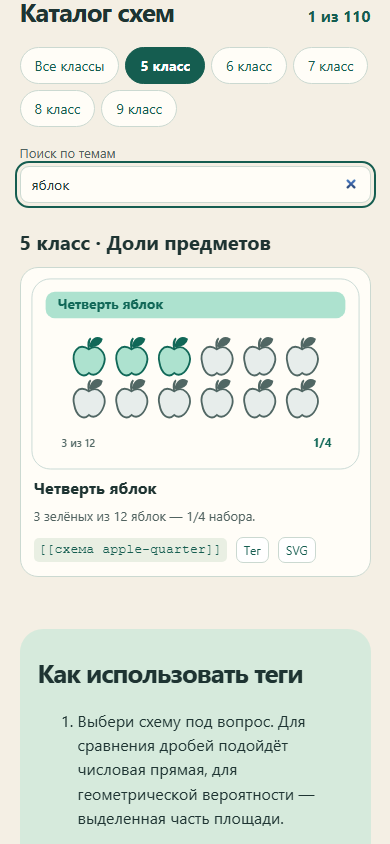
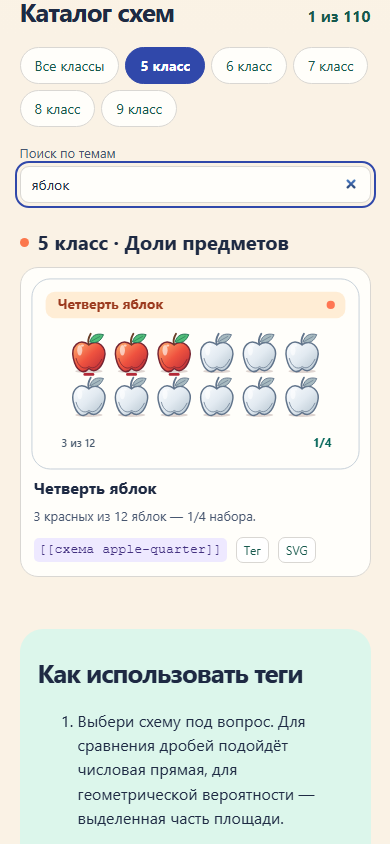
Добавить предметные оттенки и объём в SVG-схемы Бипыча

diff --git a/content/tutor-visual-art.js b/content/tutor-visual-art.js
@@ -3,8 +3,24 @@
 (function (root) {
   'use strict';
   const V = root.VEKTOR_VISUALS, L = root.VEKTOR_TUTOR_VISUALS;
-  const ink = '#243b39', muted = '#516764', line = '#c6d7d3', paper = '#fffdf7';
-  const green = '#116858', mint = '#ade2cf', purple = '#65519b', lilac = '#e1d8f4', orange = '#99521c', gold = '#ffd497';
+  const ink = '#1c2d42', muted = '#46586c', line = '#c1ccd6', paper = '#fffefa';
+  const green = '#06675b', mint = '#5ce0c3', purple = '#5636a1', lilac = '#bea9ff', orange = '#8a410c', gold = '#ffc46b';
+  const headerColors = [
+    ['#ffedd5','#9c3b20','#ff7653'], ['#dff7ee','#096250','#26c6a3'],
+    ['#eae6ff','#4b2e9b','#9b79ff'], ['#fff0c5','#764609','#efae2d'],
+    ['#dcedff','#124e91','#559cf8'],
+  ];
+  const materials = {
+    apple: ['#ffb370','#ef523f','#b32837','#772532'],
+    ticket: ['#d8e5ff','#859cf0','#657bd9','#344696'],
+    fish: ['#ffe88c','#ffac4f','#f26a50','#9c3a2f'],
+    bead: ['#ffe3ff','#cf7cec','#a958c6','#6e3682'],
+    box: ['#fff0c4','#ebba77','#c8814c','#77492b'],
+    drop: ['#dbf9ff','#73dafa','#298dc5','#215d91'],
+    die: ['#fff1e2','#ff8469','#de4540','#8b2d30'],
+  };
+  const neutral = ['#fbfdff','#e2eaf1','#b3c3ce','#61748b'];
+  let nextDrawing = 0;
   const colors = [mint, lilac, gold], accents = [green, purple, orange];
   const W = 360, H = 210, tau = Math.PI * 2;
   const rnd = n => Math.round(n * 100) / 100;
@@ -27,19 +43,53 @@
   const card = (x,y,w,h,title,value,color=0) => R(x,y,w,h,paper,line,12) + T(x+w/2,y+19,title,{size:12,fill:muted}) +
     T(x+w/2,y+h-15,value,{size:18,fill:accents[color%3],weight:750});
 
+  const D = (d,fill,stroke='none',width=1.5) =>
+    `<path d="${d}" fill="${fill}" stroke="${stroke}" stroke-width="${width}" stroke-linecap="round" stroke-linejoin="round"/>`;
+  const E = (x,y,rx,ry,fill='#fff',opacity=.6) =>
+    `<ellipse cx="${x}" cy="${y}" rx="${rx}" ry="${ry}" fill="${fill}" opacity="${opacity}"/>`;
+  const HIGHLIGHT = '#fff6e9';
+
   const icons = {
-    apple: (fill, c) => '<path d="M0 -8C-12 -16-19 -4-16 7C-14 19-6 24 0 18C8 24 15 14 17 6C19 -4 10 -15 0 -8Z" fill="'+fill+'" stroke="'+c+'" stroke-width="2"/><path d="M0 -8Q-2 -17 2 -20M1 -11Q5 -24 14 -19Q13 -12 1 -11" fill="'+c+'" stroke="'+c+'" stroke-width="2"/>',
-    ticket: (fill,c) => '<path d="M-18 -10H18V-4Q9 0 18 4V10H-18V4Q-9 0-18 -4Z" fill="'+fill+'" stroke="'+c+'" stroke-width="2"/><path d="M-6 -8V8M0 -3H9M0 2H7" fill="none" stroke="'+c+'" stroke-width="1.5" stroke-dasharray="2 2"/>',
-    fish: (fill,c) => '<path d="M10 1Q-4 -15-18 0Q-6 13 10 1L19 -7L19 9Z" fill="'+fill+'" stroke="'+c+'" stroke-width="2"/><circle cx="-10" cy="-1" r="1.6" fill="'+c+'"/>',
-    bead: (fill,c) => C(0,0,12,fill,c)+C(0,0,3,paper,c)+S(-6,-5,-2,-8,paper,2),
-    box: (fill,c) => P([[-13,-7],[0,-14],[13,-7],[13,7],[0,14],[-13,7]],fill,c,1.5)+S(-13,-7,0,0,c,1)+S(13,-7,0,0,c,1)+S(0,0,0,14,c,1),
-    drop: (fill,c) => '<path d="M0 -15C-6 -6-12 1-12 7A12 12 0 0 0 12 7C12 1 6-6 0-15Z" fill="'+fill+'" stroke="'+c+'" stroke-width="2"/><path d="M-6 7Q-5 12-1 13" fill="none" stroke="'+c+'" stroke-width="1.4"/>',
-    die: (fill,c,n) => {
+    apple: (fill,c,n,on) =>
+      E(0,20,15,2,'#77514a',.24)+
+      D('M0 -9C-11 -17-20 -7-17 6C-14 20-6 24 0 17C8 24 15 14 17 5C20 -6 10 -16 0 -9Z',fill,c,1.6)+
+      D('M-14 6C-12 15-5 19 0 15C6 19 11 13 14 7','none',c,.8)+
+      E(-10,-3,2.8,5.8)+E(-7,-8,1.7,1.1)+
+      D('M0 -9Q-2 -14 2 -21','none',on?'#693e28':c,2)+
+      D('M1 -12C3 -19 8 -22 16 -20C13 -13 9 -10 1 -12Z',on?'#51bd79':'#a7bac0',on?'#227052':c,1)+
+      S(3,-13,12,-18,on?'#247253':c,.7),
+    ticket: (fill,c) =>
+      D('M-18 -11H18V-5Q9 0 18 5V11H-18V5Q-9 0-18 -5Z',fill,c,1.6)+
+      R(-13,-8,25,16,'none','#f2f6ff',2)+S(-6,-8,-6,8,c,1,'2 2')+
+      S(2,-3,10,-3,c,1)+S(2,0,10,0,c,1)+S(2,3,7,3,c,1),
+    fish: (fill,c,n,on) =>
+      D('M9 1Q-4 -17-19 0Q-8 14 9 1L20 -9L18 1L20 10Z',fill,c,1.6)+
+      D('M-8 -7Q-2 -18 4 -7M-8 8Q-2 15 4 7',on?'#ffd06b':'#cfdae3',c,1.1)+
+      D('M-14 1Q-2 6 8 1M-8 -3Q-4 0-8 3M-3 -3Q1 0-3 3','none',c,.9)+C(-12,-1,1.7,c)+E(-10,-5,3,1),
+    bead: (fill,c) => E(1,13,10,2,'#594080',.35)+C(0,0,12,fill,c)+C(0,0,3,'#fff9f0',c)+E(-5,-5,2.8,2.2)+C(-4,-4,1,'#fff'),
+    box: (fill,c) => P([[-13,-7],[0,-14],[13,-7],[13,7],[0,14],[-13,7]],fill,c,1.35)+
+      P([[0,0],[13,-7],[13,7],[0,14]],'#99472429','none')+
+      S(-13,-7,0,0,c,1)+S(13,-7,0,0,c,1)+S(0,0,0,14,c,1)+S(-6,-10,7,-3,'#fff0bf',1.7),
+    drop: (fill,c) => D('M0 -16C-6 -7-12 1-12 7A12 12 0 0 0 12 7C12 1 6-7 0-16Z',fill,c,1.5)+
+      D('M-8 4Q-9 10-3 13','none','#f0fcff',1.55)+E(-4,-2,1.5,2),
+    die: (fill,c,n,on) => {
       const dots = [[-6,-6],[6,6],[6,-6],[-6,6],[-6,0],[6,0]];
       const positions = [[],[[0,0]],dots.slice(0,2),[...dots.slice(0,2),[0,0]],dots.slice(0,4),[...dots.slice(0,4),[0,0]],dots][n];
-      return R(-13,-13,26,26,fill,c,6) + positions.map(([x,y]) => C(x,y,2,c)).join('');
+      return R(-12,-10,26,26,on?'#983a43':'#92a8ba',c,6)+R(-13,-13,26,26,fill,c,6)+
+        S(-8,-10,6,-10,HIGHLIGHT,1.4)+positions.map(([x,y])=>C(x,y,1.9,c)).join('');
     },
   };
+  const gradient = (id, colors, vertical=false) =>
+    `<linearGradient id="${id}" x1="0%" y1="0%" x2="${vertical?'0%':'100%'}" y2="100%">${colors.map((c,i)=>
+      `<stop offset="${i*50}%" stop-color="${c}"/>`).join('')}</linearGradient>`;
+  const paint = id => 'url(#'+id+')';
+  function car(color, edge, reverse=false) {
+    const wheels = [-17,18].map(x=>C(x,9,5.6,'#213247')+C(x,9,2.3,'#b4c5d3')).join('');
+    const body = D('M-27 1Q-27 -4-21 -6L-10 -7L-2 -17H12L24 -6Q29 -4 30 1V8H-27Z',color,edge)+
+      D('M-6 -8L0 -15H7V-8ZM10 -15L17 -9L10 -8Z','#d2f3ff','#316882',.9)+
+      S(-20,-3,22,-3,'#fff5d7',1)+R(25,1,3,3,'#fff5ad','none',1)+wheels;
+    return `<g transform="scale(${reverse?-1:1} 1)">${body}</g>`;
+  }
 
   const cells = (cols,rows,x,y,d,fillFor) => seq(rows).map(j => seq(cols).map(i =>
     R(x+i*d,y+j*d,d-2,d-2,fillFor(i,j),line,Math.min(3,d/4))).join('')).join('');
@@ -49,10 +99,18 @@
     return b ? Number(a)/Number(b) : Number(a);
   };
   const draw = {
-    tokens([name,n,on,a,b]) {
-      const cols = Math.min(6,n), rows = Math.ceil(n/cols), gap = Math.min(50,280/cols);
-      return seq(n).map(i => G(180+(i%cols-(cols-1)/2)*gap, 109+(Math.floor(i/cols)-(rows-1)/2)*46,
-        icons[name](i<on ? mint : '#e7edeb', i<on ? green : muted, name==='die' ? (i===0?6:i) : i))).join('') + footer(a,b);
+    tokens([name,n,on,a,b], id, scope) {
+      const cols=Math.min(6,n), rows=Math.ceil(n/cols), gap=Math.min(50,280/cols);
+      const active=scope+'-active', quiet=scope+'-quiet';
+      const skin=materials[name];
+      const defs='<defs>'+gradient(active,skin.slice(0,3))+gradient(quiet,neutral.slice(0,3))+'</defs>';
+      const sprites=seq(n).map(i => {
+        const x=180+(i%cols-(cols-1)/2)*gap, y=106+(Math.floor(i/cols)-(rows-1)/2)*48;
+        const onNow=i<on, number=name==='die' ? (i===0?6:i) : i;
+        return G(x,y,icons[name](paint(onNow?active:quiet), onNow?skin[3]:neutral[3], number, onNow))+
+          (onNow?R(x-6,y+22,12,3,skin[2],'none',1.5):'');
+      }).join('');
+      return defs+sprites+footer(a,b);
     },
     bars(rows) {
       return rows.map(([on,n,name,value,first=on],j) => {
@@ -140,22 +198,30 @@
       }).join('');
     },
     motion([a,b,title]) {
-      return R(34,101,292,31,'#dce4e1',line,10) + S(44,117,315,117,paper,2,'11 8') +
-        arrow(65,89,143,89,green)+arrow(295,89,217,89,purple) +
-        G(66,114,icons.box(mint,green),1.1)+G(294,114,icons.box(lilac,purple),1.1) +
-        label(81,156,a)+label(280,156,b,purple)+label(180,184,title,muted);
+      return R(28,98,304,39,'#596879','#3a4e65',10)+S(42,118,318,118,'#fff3c1',2,'12 10')+
+        S(42,103,318,103,'#e8f0ef',1)+S(42,132,318,132,'#e8f0ef',1)+
+        arrow(65,76,143,76,green)+arrow(295,76,217,76,orange)+
+        G(68,117,car('#36cdb8','#126f6a'))+G(292,117,car('#ff8d56','#933624',true))+
+        label(69,156,a)+label(292,156,b,orange)+label(180,184,title,muted);
     },
-    battery([on,n]) {
-      const w=46, x=77, y=90;
-      return R(x,y,199,57,paper,green,12)+R(x+199,y+17,11,23,green,'none',4) +
-        seq(n).map(i=>R(x+8+w*i,y+8,w-5,41,i<on?mint:'#e7eeec',i<on?green:line,5)).join('')+
-        footer('Заполнено '+on+' из '+n,on+'/'+n);
+    battery([on,n], id, scope) {
+      const x=77, y=90, grad=scope+'-charge';
+      return '<defs>'+gradient(grad,['#efffb8','#98eb68','#43bc6a'],true)+'</defs>'+
+        R(x-3,y+4,208,57,'#d8e3ed','none',13)+R(x,y,199,57,'#f6fcff','#293f58',12)+
+        R(x+199,y+17,11,23,'#405877','none',4)+seq(n).map(i=>{
+          const left=x+8+46*i, active=i<on;
+          return R(left,y+8,41,41,active?paint(grad):'#e5eef3',active?'#26714a':'#9eb2c2',5)+
+            (active?S(left+7,y+14,left+34,y+14,'#f7ffd5',2):'');
+        }).join('')+footer('Заполнено '+on+' из '+n,on+'/'+n);
     },
-    tank([n,on,a,b]) {
-      const x=129, y=62, w=102, h=111;
-      return R(x,y,w,h,paper,line,12) + R(x+5,y+5+(n-on)*(h-10)/n,w-10,on*(h-10)/n,mint,'none',7) +
-        seq(n+1).map(i=>S(x+w-22,y+5+i*(h-10)/n,x+w-6,y+5+i*(h-10)/n,muted,1)).join('') +
-        label(255,78,b,muted)+label(180,128,a);
+    tank([n,on,a,b], id, scope) {
+      const x=124, y=60, w=105, h=113, level=y+5+(n-on)*(h-10)/n, water=scope+'-water';
+      return '<defs>'+gradient(water,['#a0e5ff','#61cdf3','#349cdd'],true)+'</defs>'+
+        D('M224 84Q267 76 264 114Q263 139 228 143M226 93Q256 88 254 113Q254 130 227 132','none','#7dacbd',2.1)+
+        R(x,y,w,h,'#edfaff','#6e9fb7',12)+R(x+5,level,w-10,on*(h-10)/n,paint(water),'none',7)+
+        S(x+9,level+1,x+w-10,level+1,'#e3fbff',1.9)+S(x+13,y+15,x+13,y+h-15,'#fff',2.6)+
+        seq(n+1).map(i=>S(x+w-22,y+5+i*(h-10)/n,x+w-6,y+5+i*(h-10)/n,'#215a78',1)).join('')+
+        label(252,70,b,muted)+label(177,128,a,'#083d58');
     },
     branches([parents,children],id) {
       const m=parents.length, n=children.length, gap=Math.min(27,122/(m*n-1)), start=115-(m*n-1)*gap/2;
@@ -296,16 +362,18 @@
         label((X(c)+X(d))/2,88,value);
     },
     target([a,b]) {
-      return C(146,115,57,paper,green)+C(146,115,57*b/a,mint,green)+S(146,115,203,115,green,2)+S(146,115,146,115-57*b/a,purple,2)+
-        C(146,115,3,ink)+T(227,104,'R = '+a,{anchor:'start',fill:green})+T(227,129,'r = '+b,{anchor:'start',fill:purple});
+      return C(146,115,57,'#eaf4ff','#4077b2')+C(146,115,57*b/a,'#ffad76','#a74425')+
+        S(146,115,203,115,'#326297',2)+S(146,115,146,115-57*b/a,'#963f20',2)+C(146,115,3,ink)+
+        T(227,104,'R = '+a,{anchor:'start',fill:'#234f81'})+T(227,129,'r = '+b,{anchor:'start',fill:'#9b3c22'});
     },
   };
   function render(item) {
-    const palette = (item.grade - 5)%3, color=accents[palette];
-    const size=item.title.length>35?13:15;
+    const [tint,pigment,accent]=headerColors[item.grade-5];
+    const size=item.title.length>35?13:15, scope='bip-visual-'+(++nextDrawing);
     return V.svgWrap(W,H,item.title + '. ' + item.note,
-      R(1,1,W-2,H-2,paper,line,20)+R(16,15,W-32,29,colors[palette],'none',10)+
-      T(29,34,item.title,{size,anchor:'start',weight:750,fill:color})+draw[item.kind](item.data,item.id));
+      R(1,1,W-2,H-2,paper,line,20)+R(16,15,W-32,29,tint,'none',10)+
+      T(29,34,item.title,{size,anchor:'start',weight:750,fill:pigment})+
+      C(328,29.5,4.5,accent)+draw[item.kind](item.data,item.id,scope));
   }
   V.register('tutor-diagram', {
     describe: ({id}) => L.get(id)?.note || '',

diff --git a/supabase/functions/tutor/method.ts b/supabase/functions/tutor/method.ts
@@ -4,7 +4,7 @@ export const METHOD: Record<string, { title: string; grade: number; visuals: str
   "title": "Доли и дроби",
   "grade": 5,
   "visuals": [
-   "[[схема apple-quarter]] Четверть яблок. 3 зелёных из 12 яблок — 1/4 набора.",
+   "[[схема apple-quarter]] Четверть яблок. 3 красных из 12 яблок — 1/4 набора.",
    "[[схема battery-half]] Половина заряда. 2 из 4 равных секций батареи — 1/2 заряда.",
    "[[схема ticket-three-fifth]] Билеты на поезд. 3 отмеченных билета из 5 — 3/5 набора.",
    "[[схема fish-one-third]] Рыбки в аквариуме. 2 отмеченные рыбки из 6 — 1/3 набора.",
@@ -134,7 +134,7 @@ export const METHOD: Record<string, { title: string; grade: number; visuals: str
   "title": "Часть от числа и число по его части",
   "grade": 5,
   "visuals": [
-   "[[схема apple-quarter]] Четверть яблок. 3 зелёных из 12 яблок — 1/4 набора.",
+   "[[схема apple-quarter]] Четверть яблок. 3 красных из 12 яблок — 1/4 набора.",
    "[[схема battery-half]] Половина заряда. 2 из 4 равных секций батареи — 1/2 заряда.",
    "[[схема ticket-three-fifth]] Билеты на поезд. 3 отмеченных билета из 5 — 3/5 набора.",
    "[[схема fish-one-third]] Рыбки в аквариуме. 2 отмеченные рыбки из 6 — 1/3 набора.",
@@ -1411,7 +1411,7 @@ export const METHOD: Record<string, { title: string; grade: number; visuals: str
    "[[схема venn-same]] Два совпадающих множества. В обоих списках три элемента, обе разности пусты.",
    "[[схема venn-exclusive]] Непересекающиеся события. A и B не происходят одновременно, пересечение пустое.",
    "[[схема dice-six]] Шестёрка и остальные исходы. Из 6 равновозможных граней шестёрка одна. Вероятность 1/6.",
-   "[[схема bag-complement]] Дополнение события. Из 8 жетонов 3 зелёных, 5 остальных. Вероятность не зелёного — 5/8."
+   "[[схема bag-complement]] Дополнение события. Из 8 жетонов 3 фиолетовых и 5 серых. Вероятность выбрать серый жетон — 5/8."
   ],
   "text": "Тема: «Случайные события, вероятность и частота» (раздел «Вероятность и статистика», 7 класс).\nЦель: Находить вероятность события в опыте с равновозможными исходами, частоту события по результатам опыта и отличать одно от другого.\nНаглядная модель: Перед матчем судья бросает монету. Стороны у монеты одинаковые по шансам, поэтому у орла вероятность 1/2. А у кубика шесть одинаковых граней — шестёрка лишь одна из шести, её вероятность 1/6. Бросишь кубик 60 раз — шестёрка выпадет примерно 10 раз, а сколько точно, покажет только опыт. Доля выпадений в настоящем опыте — это частота.\nПравило: Вероятность события в опыте с равновозможными исходами: P = m/n, где n — число всех исходов, m — число исходов, при которых событие наступает.Всегда 0 ≤ P ≤ 1: подходящих исходов не больше, чем всех.«Случится или нет» — это не два равновозможных исхода! Считай исходы опыта: грани кубика, шарики в коробке, билеты.Частота = сколько раз случилось/сколько было опытов — её считают по результатам опыта. При большом числе опытов частота близка к вероятности, но обычно не равна ей.\nПример 1: Бросают кубик. Какова вероятность, что выпадет число больше 4? Решение: Всего исходов 6: 1, 2, 3, 4, 5, 6. Подходят 5 и 6 — два исхода. P = 2/6 = 1/3.\nПример 2: Монету бросили 20 раз, орёл выпал 13 раз. Найди частоту выпадения орла. Решение: Частота — по результатам опыта: орёл выпал 13 раз из 20. 13 : 20 = 0,65. Вероятность орла 0,5, но частота в этом опыте другая.\nТипичные ошибки: Считает исходы «да» и «нет» равновозможными: вероятность 1/2 — Исходов «случится» и «не случится» два, но шансы у них разные. Посчитай все равновозможные исходы опыта и сколько из них подходят.; Путает частоту события в опыте с его вероятностью — Частота — то, что получилось на самом деле: сколько раз событие случилось, делённое на число опытов. Её считают по результатам, а не по теории.; Делит число всех исходов на число подходящих (n/m вместо m/n) — Вероятность не бывает больше 1: подходящих исходов не больше, чем всех. Сверху — подходящие, снизу — все.",
   "mistakes": {
@@ -1449,7 +1449,7 @@ export const METHOD: Record<string, { title: string; grade: number; visuals: str
    "[[схема venn-same]] Два совпадающих множества. В обоих списках три элемента, обе разности пусты.",
    "[[схема venn-exclusive]] Непересекающиеся события. A и B не происходят одновременно, пересечение пустое.",
    "[[схема dice-six]] Шестёрка и остальные исходы. Из 6 равновозможных граней шестёрка одна. Вероятность 1/6.",
-   "[[схема bag-complement]] Дополнение события. Из 8 жетонов 3 зелёных, 5 остальных. Вероятность не зелёного — 5/8."
+   "[[схема bag-complement]] Дополнение события. Из 8 жетонов 3 фиолетовых и 5 серых. Вероятность выбрать серый жетон — 5/8."
   ],
   "text": "Тема: «Множества: объединение и пересечение» (раздел «Вероятность и статистика», 8 класс).\nЦель: Находить число элементов объединения и пересечения множеств, использовать круги Эйлера и не считать общие элементы дважды.\nНаглядная модель: В классе 15 человек ходят на футбол, 12 — на плавание, а 4 из них — и туда, и туда. Сколько всего спортсменов? Если сложить 15 + 12 = 27, эти четверо попадут в сумму дважды: и как футболисты, и как пловцы. Поэтому лишний раз их нужно вычесть: 27 − 4 = 23.\nПравило: Пересечение A ∩ B — элементы, которые есть и в A, и в B. Объединение A ∪ B — элементы, которые есть хотя бы в одном из них.Число элементов объединения: |A ∪ B| = |A| + |B| − |A ∩ B| — общие элементы иначе посчитаны дважды.Только A = |A| − |A ∩ B|.Ни A, ни B = всего − |A ∪ B|.\nПример 1: Футболом занимаются 15 человек, плаванием — 12, обоими видами — 4. Сколько человек занимаются хотя бы одним видом? Решение: 15 + 12 = 27 — в этой сумме 4 человека посчитаны дважды. 27 − 4 = 23.\nПример 2: Там же: сколько человек занимаются только футболом? Решение: В число 15 входят и те 4, кто ещё плавает. Только футбол: 15 − 4 = 11.\nТипичные ошибки: Находит число элементов объединения как |A| + |B|, не вычитая пересечение — Элементы, которые входят в оба множества, попали и в первое число, и во второе. Их посчитали дважды — один раз нужно вычесть.; Принимает «только A» за всё множество A — В число элементов A входят и те, кто одновременно в B. «Только A» — это A без пересечения.",
   "mistakes": {
@@ -1487,7 +1487,7 @@ export const METHOD: Record<string, { title: string; grade: number; visuals: str
    "[[схема venn-same]] Два совпадающих множества. В обоих списках три элемента, обе разности пусты.",
    "[[схема venn-exclusive]] Непересекающиеся события. A и B не происходят одновременно, пересечение пустое.",
    "[[схема dice-six]] Шестёрка и остальные исходы. Из 6 равновозможных граней шестёрка одна. Вероятность 1/6.",
-   "[[схема bag-complement]] Дополнение события. Из 8 жетонов 3 зелёных, 5 остальных. Вероятность не зелёного — 5/8.",
+   "[[схема bag-complement]] Дополнение события. Из 8 жетонов 3 фиолетовых и 5 серых. Вероятность выбрать серый жетон — 5/8.",
    "[[схема two-coin-tree]] Два броска монеты. Орёл или решка на каждом шаге дают четыре порядка.",
    "[[схема lunch-tree]] Выбор обеда. Три первых блюда и два напитка дают шесть сочетаний.",
    "[[схема two-route-tree]] Путь с пересадкой. До пересадки два маршрута, дальше для каждого два продолжения.",

diff --git a/assets/tutor-visuals/gallery.css b/assets/tutor-visuals/gallery.css
@@ -1,18 +1,18 @@
-:root{color-scheme:light;--ink:#1e3432;--muted:#516360;--green:#155d50;--paper:#fffdf7;--line:#cbd9d1;--mint:#d6eadc;--beige:#f4efe4}
+:root{color-scheme:light;--ink:#1e2a43;--muted:#485770;--green:#17594d;--paper:#fffefa;--line:#d9d7d3;--mint:#dcf6eb;--beige:#faf2e5;--action:#3048aa;--lilac:#eee9ff}
 *{box-sizing:border-box}
-body{margin:0;background:var(--beige);color:var(--ink);font:16px/1.52 system-ui,sans-serif}
+body{margin:0;background:linear-gradient(180deg,#fff7e8,var(--beige) 680px);color:var(--ink);font:16px/1.52 system-ui,sans-serif}
 a{color:var(--green);text-underline-offset:4px}
 .top,main,footer{max-width:1320px;margin:auto;padding-inline:clamp(18px,5vw,65px)}
 .top{display:flex;justify-content:space-between;align-items:center;gap:16px;padding-block:20px;font-size:14px}
 .wordmark{text-decoration:none;font-size:20px;font-weight:800;white-space:nowrap}
 .wordmark span{display:inline-grid;place-items:center;color:white;background:var(--green);width:29px;height:29px;border-radius:9px;margin-right:3px}
-.intro{display:grid;grid-template-columns:1fr 1.04fr;align-items:center;gap:clamp(0px,3.2vw,60px);min-height:405px;border-radius:30px;background:var(--paper);border:1px solid var(--line);padding:clamp(24px,5vw,64px);overflow:hidden}
+.intro{display:grid;grid-template-columns:1fr 1.04fr;align-items:center;gap:clamp(0px,3.2vw,60px);min-height:405px;border-radius:30px;background:radial-gradient(ellipse at 80% 55%,#ffcead 0%,#ffeadc 41%,transparent 70%),var(--paper);border:1px solid #edd9c7;padding:clamp(24px,5vw,64px);overflow:hidden}
 h1,h2,h3,p{margin:0}
 h1{font-size:clamp(42px,7vw,92px);line-height:.98;letter-spacing:-.075em;font-weight:840}
 .intro p{margin:20px 0 24px;max-width:38ch;color:var(--muted);font-size:18px}
-.browse{display:inline-flex;gap:15px;align-items:center;padding:11px 18px;background:var(--green);color:white;text-decoration:none;border-radius:12px;font-weight:700}
+.browse{display:inline-flex;gap:15px;align-items:center;padding:11px 18px;background:var(--action);color:white;text-decoration:none;border-radius:12px;font-weight:700}
 .hero-art{display:grid;grid-template-columns:repeat(2,minmax(0,1fr));gap:12px;transform:rotate(-5deg);margin-block:16px}
-.hero-art svg{display:block;width:100%!important;max-width:100%;height:auto;box-shadow:0 8px 21px #23423819;border-radius:13px}
+.hero-art svg{display:block;width:100%!important;max-width:100%;height:auto;box-shadow:0 9px 22px #6d35472d;border-radius:13px}
 .hero-art svg:nth-child(2){transform:translateY(15px)}
 .hero-art svg:nth-child(3){transform:translateY(-5px)}
 #catalog{margin-top:52px;scroll-margin-top:18px}
@@ -24,20 +24,27 @@ h2{font-size:clamp(26px,4vw,42px);letter-spacing:-.04em}
 button,input{font:inherit}
 button{cursor:pointer}
 #grades button{color:var(--green);background:var(--paper);border:1px solid var(--line);font-size:14px;border-radius:100px;padding:7px 14px}
-#grades button[aria-pressed=true]{background:var(--green);border-color:var(--green);color:white;font-weight:650}
+#grades button[aria-pressed=true]{background:var(--action);border-color:var(--action);color:white;font-weight:650}
 .search{display:grid;gap:3px;font-size:13px;color:var(--muted)}
 .search input{min-width:245px;border:1px solid var(--line);border-radius:9px;background:var(--paper);padding:7px 11px;color:var(--ink);font-size:14px}
-.group-heading{font-size:20px;margin:24px 0 10px}
+.group-heading{font-size:20px;margin:24px 0 10px;display:flex;align-items:center;gap:9px}
+[data-grade="5"]{--grade-accent:#fb774c}
+[data-grade="6"]{--grade-accent:#27c7a4}
+[data-grade="7"]{--grade-accent:#9372ef}
+[data-grade="8"]{--grade-accent:#e9a72c}
+[data-grade="9"]{--grade-accent:#5299ed}
+.group-heading::before{content:"";width:9px;height:9px;border-radius:50%;background:var(--grade-accent);flex:none}
 .cards{display:grid;grid-template-columns:repeat(auto-fill,minmax(min(100%,240px),1fr));gap:12px}
 .tile{background:var(--paper);border:1px solid var(--line);border-radius:18px;padding:10px;display:flex;flex-direction:column;gap:8px;min-width:0}
+.tile:hover{border-color:var(--grade-accent);box-shadow:0 4px 16px #3a304312}
 .tile svg{display:block;width:100%!important;max-width:100%;height:auto}
 .tile h3{font-size:16px;line-height:1.25;margin:0 3px}
 .tile p{font-size:13px;color:var(--muted);margin:0 3px}
 .tile-actions{display:flex;flex-wrap:wrap;gap:5px 9px;align-items:center;margin-top:auto;padding:3px}
-code{color:var(--green);background:#e9efe3;padding:2px 5px;border-radius:5px;font-size:.83em;overflow-wrap:anywhere}
+code{color:#433180;background:var(--lilac);padding:2px 5px;border-radius:5px;font-size:.83em;overflow-wrap:anywhere}
 .tile button{border:1px solid var(--line);border-radius:7px;padding:3px 7px;background:white;color:var(--green);font-size:12px}
 .instructions{margin-top:52px;padding:24px clamp(18px,4vw,42px);background:var(--mint);border-radius:23px}
 .instructions li+li{margin-top:7px}
 footer{color:var(--muted);padding-block:23px;font-size:13px}
-:focus-visible{outline:2px solid var(--green);outline-offset:3px}
+:focus-visible{outline:2px solid var(--action);outline-offset:3px}
 @media(max-width:720px){.intro{grid-template-columns:1fr}.hero-art{margin:25px 0 0;transform:none}.hero-art svg:nth-child(n){transform:none}.intro p{font-size:16px}.filters,.search,.search input{width:100%}}

diff --git a/content/tutor-visuals.js b/content/tutor-visuals.js
@@ -9,7 +9,7 @@
   }
 
   add(5, 'Доли предметов', 'concept part-of', [
-    ['apple-quarter','Четверть яблок','3 зелёных из 12 яблок — 1/4 набора.','tokens',['apple',12,3,'3 из 12','1/4']],
+    ['apple-quarter','Четверть яблок','3 красных из 12 яблок — 1/4 набора.','tokens',['apple',12,3,'3 из 12','1/4']],
     ['battery-half','Половина заряда','2 из 4 равных секций батареи — 1/2 заряда.','battery',[2,4]],
     ['ticket-three-fifth','Билеты на поезд','3 отмеченных билета из 5 — 3/5 набора.','tokens',['ticket',5,3,'Отмечены 3','Всего 5']],
     ['fish-one-third','Рыбки в аквариуме','2 отмеченные рыбки из 6 — 1/3 набора.','tokens',['fish',6,2,'2 из 6','1/3']],
@@ -125,7 +125,7 @@
     ['venn-same','Два совпадающих множества','В обоих списках три элемента, обе разности пусты.','venn',['Список A','Список B','0','3','0']],
     ['venn-exclusive','Непересекающиеся события','A и B не происходят одновременно, пересечение пустое.','venn',['A','B','3','0','2']],
     ['dice-six','Шестёрка и остальные исходы','Из 6 равновозможных граней шестёрка одна. Вероятность 1/6.','tokens',['die',6,1,'Одна грань из шести','P = 1/6']],
-    ['bag-complement','Дополнение события','Из 8 жетонов 3 зелёных, 5 остальных. Вероятность не зелёного — 5/8.','tokens',['bead',8,3,'Выделены 3','Осталось 5']],
+    ['bag-complement','Дополнение события','Из 8 жетонов 3 фиолетовых и 5 серых. Вероятность выбрать серый жетон — 5/8.','tokens',['bead',8,3,'Выделены 3','Осталось 5']],
   ]);
   add(8, 'Деревья вариантов', 's8-tree s8-events s9-combinatorics s9-bernoulli', [
     ['two-coin-tree','Два броска монеты','Орёл или решка на каждом шаге дают четыре порядка.','branches',[['Орёл','Решка'],['Орёл','Решка']]],

diff --git a/tests/tutor.test.js b/tests/tutor.test.js
@@ -95,12 +95,20 @@ const sseBody = parts => parts.map(p => 'data: ' + JSON.stringify(p) + '\n\n').j
   await T.stream({ mode: 'vektor' }, [{ role: 'system', content: 'СЕКРЕТНЫЙ ПРОМПТ' }], () => {}, { maxTokens: 999, payload: pl });
   ok(sent && !('model' in sent) && !('max_tokens' in sent) && !('messages' in sent) && !('reasoning' in sent) && !JSON.stringify(sent).includes('СЕКРЕТНЫЙ ПРОМПТ'), 'сервер: в запросе нет модели, лимита токенов и промпта');
   ok(sent.topic === topic.id && sent.mode === 'task' && sent.history.length === 1 && sent.history[0].role === 'user' && sent.task.answer === task.answer, 'сервер: тема, задача и только реплики ученика/Бипыча');
-  const catalog = window.VEKTOR_TUTOR_VISUALS.entries, artwork = new Set();
+  const catalog = window.VEKTOR_TUTOR_VISUALS.entries, artwork = new Set(), gradientIds = new Set();
   for (const entry of catalog) {
     const drawing = T.render(entry.tag, { topic: entry.topics[0] }).html.match(/<svg [^>]*>.*?<\/svg>/s);
     ok(drawing && !/NaN|Infinity|undefined/.test(drawing[0]), 'SVG для тега ' + entry.id);
     ok(T.render(entry.tag, { topic: 'unrelated-topic' }).html === '', 'тег другой темы: ' + entry.id);
-    if (drawing) artwork.add(drawing[0].replace(/<title>.*?<\/title>|<text[^>]*>.*?<\/text>| (?:aria-label|stroke|fill)="[^"]*"/gs, ''));
+    if (drawing) {
+      const ids = [...drawing[0].matchAll(/<linearGradient id="([^"]+)"/g)].map(match => match[1]);
+      for (const id of ids) {
+        ok(!gradientIds.has(id), 'у градиента уникальный идентификатор ' + id);
+        gradientIds.add(id);
+      }
+      for (const ref of drawing[0].matchAll(/url\(#([^)]+)\)/g)) ok(ids.includes(ref[1]), 'градиент входит в SVG ' + entry.id);
+      artwork.add(drawing[0].replace(/<defs>.*?<\/defs>|<title>.*?<\/title>|<text[^>]*>.*?<\/text>| (?:aria-label|stroke|fill)="[^"]*"/gs, ''));
+    }
   }
   ok(new Set(catalog.map(entry => entry.tag)).size === catalog.length, 'теги схем уникальны');
   ok(artwork.size >= 100, 'не менее 100 разных композиций SVG, кроме цвета и подписи: ' + artwork.size);

diff --git a/assets/tutor-visuals/gallery.js b/assets/tutor-visuals/gallery.js
@@ -11,7 +11,7 @@
   };
   const svg = id => figure({ type: 'tutor-diagram', id });
   const art = document.querySelector('.hero-art');
-  for (const id of ['apple-quarter','origin-vs-fee','fraction-of-fraction','circle-target']) {
+  for (const id of ['apple-quarter','origin-vs-fee','opposite-motion','circle-target']) {
     const host = make('div');
     host.innerHTML = svg(id);
     art.append(host.firstElementChild.firstElementChild);
@@ -32,6 +32,7 @@
     }
     const sections = [...groups].map(([name, items]) => {
       const section = make('section');
+      section.dataset.grade = items[0].grade;
       const grid = make('div', '', 'cards');
       grid.append(...items.map(card));
       section.append(make('h3', items[0].grade + ' класс · ' + name, 'group-heading'), grid);

diff --git a/docs/tutor-visuals.md b/docs/tutor-visuals.md
@@ -12,5 +12,6 @@
 
 1. Запиши идею, класс, идентификаторы тем, числа и подпись в `content/tutor-visuals.js`. Выбери короткий уникальный идентификатор из латиницы, цифр и дефисов.
 2. Подбери способ изображения в `content/tutor-visual-art.js`. Для новой композиции используй векторные примитивы и подпиши значимые точки, оси или величины. У отмеченных и остальных частей должны различаться форма, контур или подпись, чтобы смысл сохранялся при слабом различении цветов.
-3. Проверь арифметику, соответствие размеров, читаемость на 390 пикселях и текстовое описание. Проверь, как рисунок выглядит внутри реплики Бипыча.
-4. Выполни `node tools/tutor-method.mjs`, `node tests/tutor.test.js` и `bun tests/ai_modes.test.ts`. Галерея, теги и серверная инструкция используют одну и ту же запись каталога.
+3. Используй оттенки и блики, чтобы показать материал предмета. Выделенные яблоки красные, рыбки оранжевые, невыделенные предметы серо-голубые. У выделенных элементов есть и метка формы. На графике оставляй оси нейтральными, а цвет используй для различения рядов или объектов.
+4. Проверь арифметику, соответствие размеров, читаемость на 390 пикселях и текстовое описание. Проверь, как рисунок выглядит внутри реплики Бипыча.
+5. Выполни `node tools/tutor-method.mjs`, `node tests/tutor.test.js` и `bun tests/ai_modes.test.ts`. Галерея, теги и серверная инструкция используют одну и ту же запись каталога.
